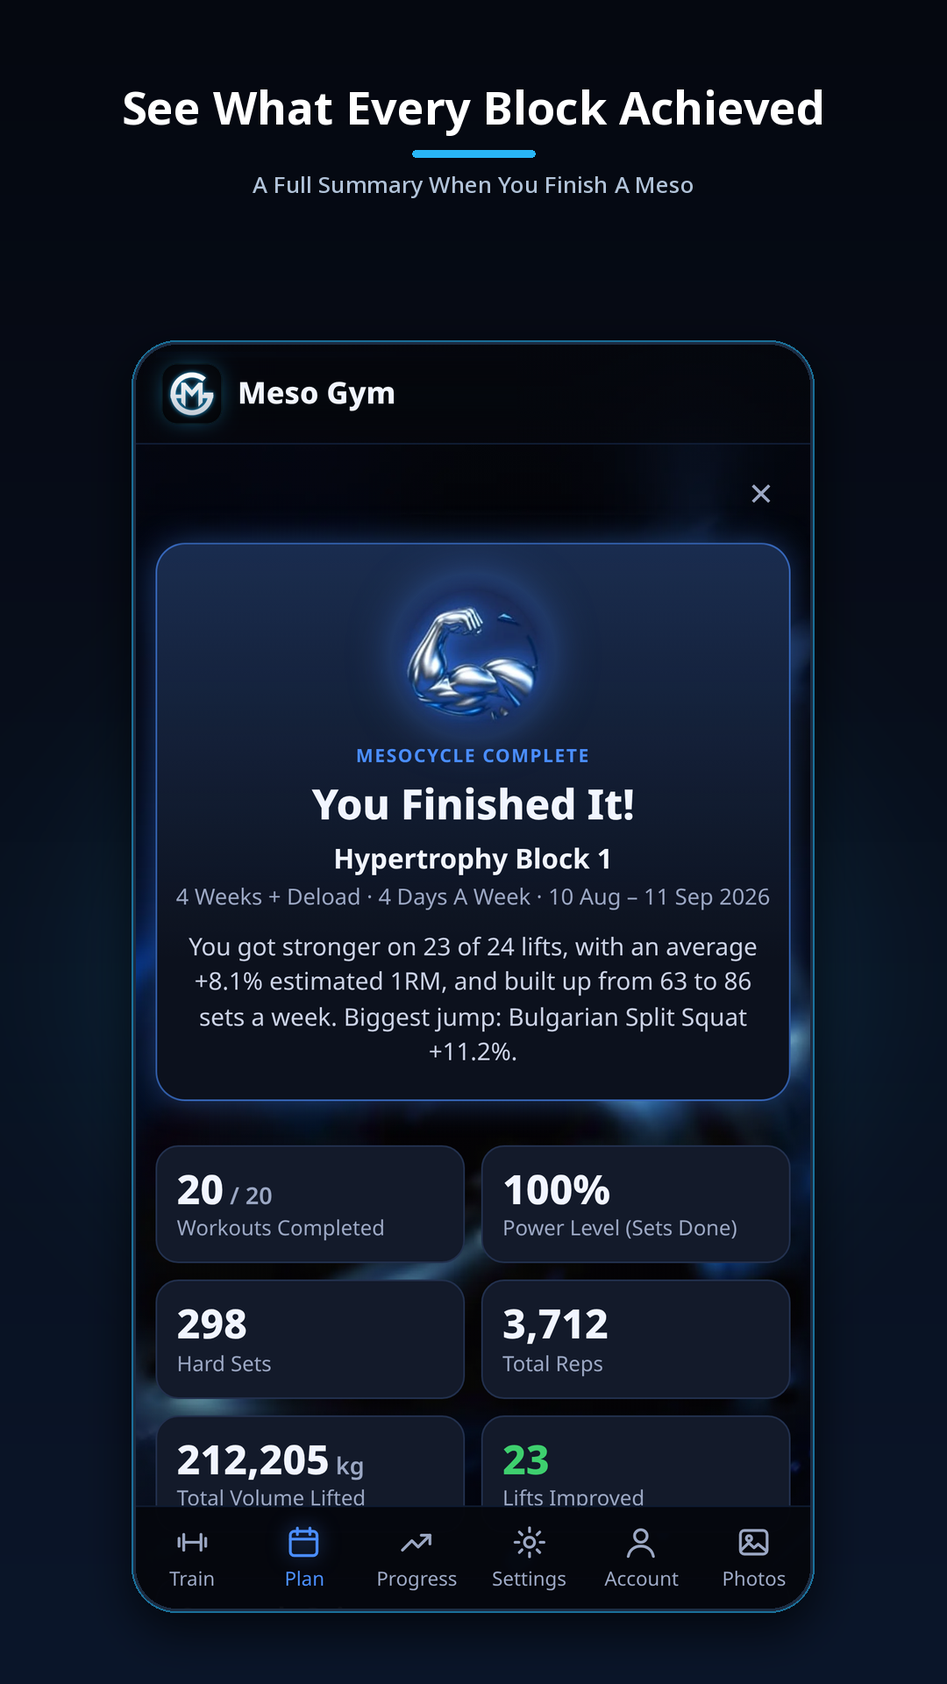
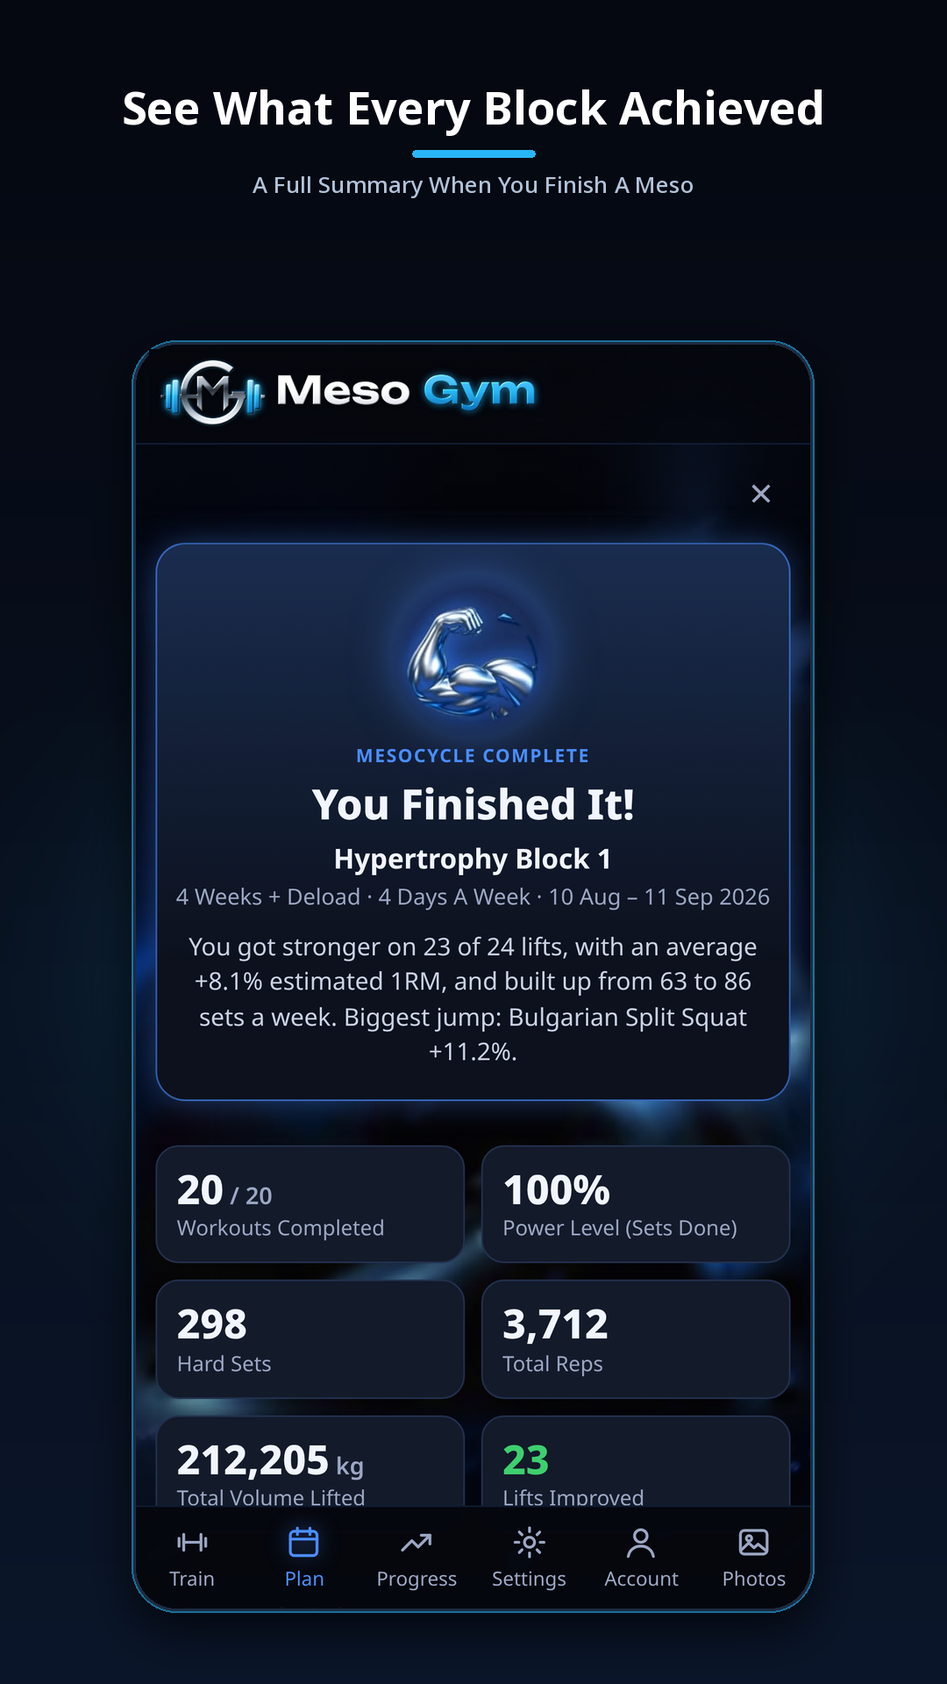
App screenshots: header now shows the full G1 lockup (Option B) matching app.mesogym.com; cache-bust v=g1lock

Changed region(s): [[0.1528, 0.1875, 0.5806, 0.25]]

diff --git a/press.html b/press.html
@@ -144,7 +144,7 @@
 <div class="dl-grid"><figure class=""><a href="assets/press/meso-gym-logo-transparent.png" download><img width="640" height="503" src="assets/press/meso-gym-logo-transparent-preview.webp" alt="Meso Gym logo, transparent background" loading="lazy" decoding="async"></a><figcaption class="small"><strong>Logo, transparent background</strong><br><a href="assets/press/meso-gym-logo-transparent.png" download>PNG, 1600×1260</a></figcaption></figure><figure class=""><a href="assets/press/meso-gym-banner-dark.png?v=2" download><img width="640" height="185" src="assets/press/meso-gym-banner-dark-preview.webp?v=2" alt="Meso Gym logo banner, dark" loading="lazy" decoding="async"></a><figcaption class="small"><strong>Logo banner, dark</strong><br><a href="assets/press/meso-gym-banner-dark.png?v=2" download>PNG, 1800×520</a></figcaption></figure><figure class=""><a href="assets/press/meso-gym-icon-1024.png" download><img width="640" height="640" src="assets/press/meso-gym-icon-1024-preview.webp" alt="Meso Gym app icon" loading="lazy" decoding="async"></a><figcaption class="small"><strong>App icon</strong><br><a href="assets/press/meso-gym-icon-1024.png" download>PNG, 1024×1024</a></figcaption></figure><figure class=""><a href="assets/press/meso-gym-feature-graphic-1024x500.png" download><img width="640" height="313" src="assets/press/meso-gym-feature-graphic-1024x500-preview.webp" alt="Meso Gym feature graphic" loading="lazy" decoding="async"></a><figcaption class="small"><strong>Feature graphic</strong><br><a href="assets/press/meso-gym-feature-graphic-1024x500.png" download>PNG, 1024×500</a></figcaption></figure></div></section>
 <section class="card" aria-labelledby="p-shots"><h2 id="p-shots">Screenshots</h2>
 <p class="muted">Real app screens with demo data. Tap a screenshot to download the full-size PNG.</p>
-<div class="press-shots"><figure><a href="assets/press/meso-gym-screenshot-1-log-every-set.png?v=3" download><img src="assets/press/meso-gym-screenshot-1-log-every-set.webp?v=3" alt="Meso Gym press screenshot: workout screen logging Incline Machine Chest Press at 74.5 kg for 11 reps, with an RIR target and suggested weight" width="540" height="960" loading="lazy" decoding="async"></a><figcaption class="small">Log every set with an RIR target<br><a href="assets/press/meso-gym-screenshot-1-log-every-set.png?v=3" download>PNG, 1080×1920</a></figcaption></figure><figure><a href="assets/press/meso-gym-screenshot-2-weekly-volume.png?v=3" download><img src="assets/press/meso-gym-screenshot-2-weekly-volume.webp?v=3" alt="Meso Gym press screenshot: weekly sets per muscle for back, rising from 11 to 12 sets across the mesocycle, then a deload" width="540" height="960" loading="lazy" decoding="async"></a><figcaption class="small">Weekly sets build, then deload<br><a href="assets/press/meso-gym-screenshot-2-weekly-volume.png?v=3" download>PNG, 1080×1920</a></figcaption></figure><figure><a href="assets/press/meso-gym-screenshot-3-feedback.png?v=3" download><img src="assets/press/meso-gym-screenshot-3-feedback.webp?v=3" alt="Meso Gym press screenshot: How Did It Go? feedback screen rating chest pump and workload after a workout" width="540" height="960" loading="lazy" decoding="async"></a><figcaption class="small">Feedback shapes next week<br><a href="assets/press/meso-gym-screenshot-3-feedback.png?v=3" download>PNG, 1080×1920</a></figcaption></figure><figure><a href="assets/press/meso-gym-screenshot-4-mesocycle-summary.png" download><img src="assets/press/meso-gym-screenshot-4-mesocycle-summary.webp" alt="Meso Gym press screenshot: mesocycle complete summary for Hypertrophy Block 1 with 20 of 20 workouts done and 23 lifts improved" width="540" height="960" loading="lazy" decoding="async"></a><figcaption class="small">A summary of every block<br><a href="assets/press/meso-gym-screenshot-4-mesocycle-summary.png" download>PNG, 1080×1920</a></figcaption></figure><figure><a href="assets/press/meso-gym-screenshot-5-progress.png?v=3" download><img src="assets/press/meso-gym-screenshot-5-progress.webp?v=3" alt="Meso Gym press screenshot: Power Level ring at 75 percent in week 4 of 5, with weekly progression bars" width="540" height="960" loading="lazy" decoding="async"></a><figcaption class="small">Watch your strength climb<br><a href="assets/press/meso-gym-screenshot-5-progress.png?v=3" download>PNG, 1080×1920</a></figcaption></figure></div></section>
+<div class="press-shots"><figure><a href="assets/press/meso-gym-screenshot-1-log-every-set.png?v=g1lock" download><img src="assets/press/meso-gym-screenshot-1-log-every-set.webp?v=g1lock" alt="Meso Gym press screenshot: workout screen logging Incline Machine Chest Press at 74.5 kg for 11 reps, with an RIR target and suggested weight" width="540" height="960" loading="lazy" decoding="async"></a><figcaption class="small">Log every set with an RIR target<br><a href="assets/press/meso-gym-screenshot-1-log-every-set.png?v=g1lock" download>PNG, 1080×1920</a></figcaption></figure><figure><a href="assets/press/meso-gym-screenshot-2-weekly-volume.png?v=g1lock" download><img src="assets/press/meso-gym-screenshot-2-weekly-volume.webp?v=g1lock" alt="Meso Gym press screenshot: weekly sets per muscle for back, rising from 11 to 12 sets across the mesocycle, then a deload" width="540" height="960" loading="lazy" decoding="async"></a><figcaption class="small">Weekly sets build, then deload<br><a href="assets/press/meso-gym-screenshot-2-weekly-volume.png?v=g1lock" download>PNG, 1080×1920</a></figcaption></figure><figure><a href="assets/press/meso-gym-screenshot-3-feedback.png?v=g1lock" download><img src="assets/press/meso-gym-screenshot-3-feedback.webp?v=g1lock" alt="Meso Gym press screenshot: How Did It Go? feedback screen rating chest pump and workload after a workout" width="540" height="960" loading="lazy" decoding="async"></a><figcaption class="small">Feedback shapes next week<br><a href="assets/press/meso-gym-screenshot-3-feedback.png?v=g1lock" download>PNG, 1080×1920</a></figcaption></figure><figure><a href="assets/press/meso-gym-screenshot-4-mesocycle-summary.png?v=g1lock" download><img src="assets/press/meso-gym-screenshot-4-mesocycle-summary.webp?v=g1lock" alt="Meso Gym press screenshot: mesocycle complete summary for Hypertrophy Block 1 with 20 of 20 workouts done and 23 lifts improved" width="540" height="960" loading="lazy" decoding="async"></a><figcaption class="small">A summary of every block<br><a href="assets/press/meso-gym-screenshot-4-mesocycle-summary.png?v=g1lock" download>PNG, 1080×1920</a></figcaption></figure><figure><a href="assets/press/meso-gym-screenshot-5-progress.png?v=g1lock" download><img src="assets/press/meso-gym-screenshot-5-progress.webp?v=g1lock" alt="Meso Gym press screenshot: Power Level ring at 75 percent in week 4 of 5, with weekly progression bars" width="540" height="960" loading="lazy" decoding="async"></a><figcaption class="small">Watch your strength climb<br><a href="assets/press/meso-gym-screenshot-5-progress.png?v=g1lock" download>PNG, 1080×1920</a></figcaption></figure></div></section>
 <section class="card" aria-labelledby="p-contact"><h2 id="p-contact">Press Contact</h2>
 <p>For interviews, review access or anything else, please use our <a href="contact.html?subject=Press%2FPartnership">contact form</a> and choose Press / Partnership.</p>
 <p class="small muted">Meso Gym is an independent app and is not affiliated with, endorsed by or sponsored by Renaissance Periodization (RP Strength).</p></section>

diff --git a/index.html b/index.html
@@ -94,7 +94,7 @@
 </section>
 <section class="hero-shot">
   <figure class="main-shot"><video src="assets/video/meso-gym-home-video-g1c.mp4?v=10" poster="assets/video/meso-gym-home-video-poster-g1b.webp?v=10" controls playsinline preload="metadata" width="720" height="1280" title="Meso Gym App Walkthrough" aria-label="Meso Gym app walkthrough video with voiceover: plan a mesocycle, log every set, see your progress and train together">Your browser can't play this video. <a href="assets/video/meso-gym-home-video-g1c.mp4?v=10">Download The Meso Gym Video</a>.</video><figcaption>See Meso Gym In 90 Seconds. Tap Play For Sound.</figcaption></figure>
-  <figure class="inset"><img src="assets/screens/meso-gym-light-theme.webp" alt="The Train screen in the Light theme" loading="lazy" width="369" height="800"><figcaption><strong>Pick Your Theme</strong><br>Change the app's look in Settings.</figcaption></figure>
+  <figure class="inset"><img src="assets/screens/meso-gym-light-theme.webp?v=g1lock" alt="The Train screen in the Light theme" loading="lazy" width="369" height="800"><figcaption><strong>Pick Your Theme</strong><br>Change the app's look in Settings.</figcaption></figure>
 </section>
 <section class="card rp-switch" aria-labelledby="rp-switch-h">
   <h2 id="rp-switch-h">Switching From RP? Bring Your Training History</h2>
@@ -123,7 +123,7 @@
   <!-- tile -->
   <a class="tile" href="see-your-progress.html"><div class="tile-thumb"><img src="assets/screens/home-tile-see-your-progress.webp" width="780" height="620" alt="Meso Gym Power Level ring at 75 percent of the planned sets for the current mesocycle" loading="lazy" decoding="async"></div><div class="tile-text"><h3>See Your Progress</h3><p>Power Level, body map and photos.</p></div></a>
   <!-- tile -->
-  <a class="tile" href="learn-as-you-go.html"><div class="tile-thumb"><img src="assets/screens/home-tile-learn-as-you-go-help.webp" width="780" height="620" alt="Meso Gym Help menu from the ? at the top of the app, with How To Use Meso Gym, All Features and Feedback" loading="lazy" decoding="async"></div><div class="tile-text"><h3>Learn As You Go</h3><p>Intro video, tips and a step-by-step guide.</p></div></a>
+  <a class="tile" href="learn-as-you-go.html"><div class="tile-thumb"><img src="assets/screens/home-tile-learn-as-you-go-help.webp?v=g1lock" width="780" height="620" alt="Meso Gym Help menu from the ? at the top of the app, with How To Use Meso Gym, All Features and Feedback" loading="lazy" decoding="async"></div><div class="tile-text"><h3>Learn As You Go</h3><p>Intro video, tips and a step-by-step guide.</p></div></a>
   <!-- tile -->
   <a class="tile" href="training-guide.html"><div class="tile-thumb"><img src="assets/screens/home-tile-training-guide.webp" width="780" height="620" alt="Meso Gym weeks grid showing completed sets for each training day from week 1 to week 4" loading="lazy" decoding="async"></div><div class="tile-text"><h3>Training Guide</h3><p>RIR, mesocycles and deloads explained.</p></div></a>
   <!-- tile -->

diff --git a/learn-as-you-go.html b/learn-as-you-go.html
@@ -85,9 +85,9 @@
 <main id="main" class="wrap">
 <section class="page-head"><h1>Learn As You Go</h1><p class="lead">A short intro video and in-the-moment tips get you started, and the <strong>?</strong> at the top right of every screen opens a menu with How To Use Meso Gym, the built-in step-by-step guide, plus All Features and Feedback. Your training is saved on your phone and, when you sign in, syncs to your Meso Gym account and the web app. It still works offline, and backup export is in Settings.</p></section>
 <div class="shots">
-  <figure><img width="390" height="800" src="assets/screens/meso-gym-help-menu.webp?v=4" alt="Meso Gym Help menu open from the ? at the top right of the workout screen, with How To Use Meso Gym, All Features and Feedback" loading="lazy" decoding="async"><figcaption>Tap the <strong>?</strong> at the top of any screen for the step-by-step guide, All Features and Feedback.</figcaption></figure>
-  <figure><img width="390" height="800" src="assets/screens/meso-gym-settings-screen.webp?v=4" alt="Meso Gym Settings screen with Theme, Default Unit, Interval Timer and Intro and Tips, with Watch the Intro and Reset Tips buttons" loading="lazy" decoding="async"><figcaption>Replay the intro or bring the tips back in Settings.</figcaption></figure>
-  <figure><img width="390" height="844" src="assets/screens/meso-gym-light-theme.webp" alt="Meso Gym Train screen in the Light theme, showing the Autumn Build mesocycle" loading="lazy" decoding="async"><figcaption><strong>Pick Your Theme:</strong> change the app's look.</figcaption></figure>
+  <figure><img width="390" height="800" src="assets/screens/meso-gym-help-menu.webp?v=g1lock" alt="Meso Gym Help menu open from the ? at the top right of the workout screen, with How To Use Meso Gym, All Features and Feedback" loading="lazy" decoding="async"><figcaption>Tap the <strong>?</strong> at the top of any screen for the step-by-step guide, All Features and Feedback.</figcaption></figure>
+  <figure><img width="390" height="800" src="assets/screens/meso-gym-settings-screen.webp?v=g1lock" alt="Meso Gym Settings screen with Theme, Default Unit, Interval Timer and Intro and Tips, with Watch the Intro and Reset Tips buttons" loading="lazy" decoding="async"><figcaption>Replay the intro or bring the tips back in Settings.</figcaption></figure>
+  <figure><img width="390" height="844" src="assets/screens/meso-gym-light-theme.webp?v=g1lock" alt="Meso Gym Train screen in the Light theme, showing the Autumn Build mesocycle" loading="lazy" decoding="async"><figcaption><strong>Pick Your Theme:</strong> change the app's look.</figcaption></figure>
 </div>
 <p class="center"><a class="btn" href="training-guide.html">Read The Training Guide →</a></p>
 </main>

diff --git a/build-your-mesocycle.html b/build-your-mesocycle.html
@@ -85,9 +85,9 @@
 <main id="main" class="wrap">
 <section class="page-head"><h1>Build Your Mesocycle</h1><p class="lead">Start from a ready-made template or build your own routine, with exercises graded and ranked best-first for each muscle. Set every muscle to Emphasise, Grow or Maintain and see exactly how its sets ramp across the block.</p></section>
 <div class="shots">
-  <figure><img width="390" height="844" src="assets/screens/meso-gym-mesocycle-builder-day.webp" alt="Meso Gym mesocycle builder showing Day 1 Upper, with Shuffle, Change, demo, pin and remove controls on each exercise" loading="lazy" decoding="async"><figcaption>Start from a template or Build It For Me, then shuffle, change, pin or remove exercises.</figcaption></figure>
+  <figure><img width="390" height="844" src="assets/screens/meso-gym-mesocycle-builder-day.webp?v=g1lock" alt="Meso Gym mesocycle builder showing Day 1 Upper, with Shuffle, Change, demo, pin and remove controls on each exercise" loading="lazy" decoding="async"><figcaption>Start from a template or Build It For Me, then shuffle, change, pin or remove exercises.</figcaption></figure>
   <figure><img width="390" height="844" src="assets/screens/meso-gym-exercise-picker-graded.webp" alt="Meso Gym chest exercise picker sorted Best First, with S and A grade badges and a demo button for each exercise" loading="lazy" decoding="async"><figcaption>Exercises are graded and sorted best-first for each muscle.</figcaption></figure>
-  <figure><img width="390" height="844" src="assets/screens/meso-gym-muscle-priorities.webp" alt="Meso Gym Muscle Priorities screen with Emphasise, Grow and Maintain options for each muscle" loading="lazy" decoding="async"><figcaption>Choose Emphasise, Grow or Maintain for every muscle.</figcaption></figure>
+  <figure><img width="390" height="844" src="assets/screens/meso-gym-muscle-priorities.webp?v=g1lock" alt="Meso Gym Muscle Priorities screen with Emphasise, Grow and Maintain options for each muscle" loading="lazy" decoding="async"><figcaption>Choose Emphasise, Grow or Maintain for every muscle.</figcaption></figure>
 </div>
 
 <section class="card prose" aria-labelledby="rp-import-h"><h2 id="rp-import-h">Coming From The RP Hypertrophy App?</h2><p>Import your RP data export into Meso Gym: finished mesocycles with every logged set go into your history, and unstarted plans become templates you can build from. <a href="switch-from-rp.html">How to import →</a></p><p class="small muted">Meso Gym isn't affiliated with Renaissance Periodization or the RP Hypertrophy app.</p></section>

diff --git a/see-your-progress.html b/see-your-progress.html
@@ -85,9 +85,9 @@
 <main id="main" class="wrap">
 <section class="page-head"><h1>See Your Progress</h1><p class="lead">Your Power Level builds through the block, and you can see it against your last meso's peak. The body map shows which muscles you've hit, and progress photos every two weeks show the change. Photos stay on your phone.</p></section>
 <div class="shots">
-  <figure><img width="390" height="844" src="assets/screens/meso-gym-power-level.webp" alt="Meso Gym Power Level ring at 75 percent in week 4 of 5, against the last meso peak, with weekly progression bars" loading="lazy" decoding="async"><figcaption>Power Level, against your last meso's peak.</figcaption></figure>
-  <figure><img width="390" height="844" src="assets/screens/meso-gym-body-map.webp" alt="Meso Gym body map with front and back figures showing on-track, under-trained and not-trained muscles for the current meso" loading="lazy" decoding="async"><figcaption>Tap a muscle to see everything you've logged for it.</figcaption></figure>
-  <figure><img width="390" height="844" src="assets/screens/meso-gym-progress-photos.webp" alt="Meso Gym Progress Photos screen with next photo due in 14 days, a Start vs Latest comparison nine weeks apart and a timeline" loading="lazy" decoding="async"><figcaption>A photo every two weeks, compared side by side.</figcaption></figure>
+  <figure><img width="390" height="844" src="assets/screens/meso-gym-power-level.webp?v=g1lock" alt="Meso Gym Power Level ring at 75 percent in week 4 of 5, against the last meso peak, with weekly progression bars" loading="lazy" decoding="async"><figcaption>Power Level, against your last meso's peak.</figcaption></figure>
+  <figure><img width="390" height="844" src="assets/screens/meso-gym-body-map.webp?v=g1lock" alt="Meso Gym body map with front and back figures showing on-track, under-trained and not-trained muscles for the current meso" loading="lazy" decoding="async"><figcaption>Tap a muscle to see everything you've logged for it.</figcaption></figure>
+  <figure><img width="390" height="844" src="assets/screens/meso-gym-progress-photos.webp?v=g1lock" alt="Meso Gym Progress Photos screen with next photo due in 14 days, a Start vs Latest comparison nine weeks apart and a timeline" loading="lazy" decoding="async"><figcaption>A photo every two weeks, compared side by side.</figcaption></figure>
 </div>
 
 <p class="next"><a class="btn" href="learn-as-you-go.html">Next: Learn As You Go →</a></p>

diff --git a/log-every-set.html b/log-every-set.html
@@ -86,8 +86,8 @@
 <section class="page-head"><h1>Log Every Set</h1><p class="lead">Every exercise shows your sets, rep range and RIR target, plus a suggested weight based on last time. Tick a set to log it. Enter the first set's weight and Meso Gym fills it into the other sets for you.</p></section>
 <div class="shots">
   <figure><img width="390" height="415" src="assets/screens/meso-gym-workout-set-logged.webp" alt="Meso Gym workout screen with set 1 of Incline Machine Chest Press ticked at 74.5 kg for 11 reps, with set 2 already filled in at 74.5 kg" loading="lazy" decoding="async"><figcaption>Tick a set to log it.</figcaption></figure>
-  <figure><img width="390" height="844" src="assets/screens/meso-gym-suggested-weight.webp" alt="Meso Gym workout screen for Incline Machine Chest Press, 8 to 12 reps at 1 RIR, suggested 74.5 kg times 10, plus 2 kg over last time, with both sets pre-filled" loading="lazy" decoding="async"><figcaption>A suggested weight and the increase over last time.</figcaption></figure>
-  <figure><img width="390" height="844" src="assets/screens/meso-gym-weight-auto-fill.webp" alt="Meso Gym workout screen for Incline Machine Chest Press with set 1 logged at 74.5 kg for 11 reps and the same weight filled in for set 2" loading="lazy" decoding="async"><figcaption>Enter one weight and the rest of your sets fill in.</figcaption></figure>
+  <figure><img width="390" height="844" src="assets/screens/meso-gym-suggested-weight.webp?v=g1lock" alt="Meso Gym workout screen for Incline Machine Chest Press, 8 to 12 reps at 1 RIR, suggested 74.5 kg times 10, plus 2 kg over last time, with both sets pre-filled" loading="lazy" decoding="async"><figcaption>A suggested weight and the increase over last time.</figcaption></figure>
+  <figure><img width="390" height="844" src="assets/screens/meso-gym-weight-auto-fill.webp?v=g1lock" alt="Meso Gym workout screen for Incline Machine Chest Press with set 1 logged at 74.5 kg for 11 reps and the same weight filled in for set 2" loading="lazy" decoding="async"><figcaption>Enter one weight and the rest of your sets fill in.</figcaption></figure>
 </div>
 
 <p class="next"><a class="btn" href="interval-timer.html">Next: Interval Timer →</a></p>

diff --git a/training-that-adapts.html b/training-that-adapts.html
@@ -85,8 +85,8 @@
 <main id="main" class="wrap">
 <section class="page-head"><h1>Training That Adapts</h1><p class="lead">After each workout, rate pump, soreness and workload for every muscle you trained. Meso Gym adds or removes sets for that day next week, and shows you the change before you save.</p></section>
 <div class="shots">
-  <figure><img width="390" height="844" src="assets/screens/meso-gym-workout-feedback.webp" alt="Meso Gym How Did It Go? feedback screen rating Chest pump and workload, with an Up One Set badge" loading="lazy" decoding="async"><figcaption>Rate each muscle and see the change straight away.</figcaption></figure>
-  <figure><img width="390" height="844" src="assets/screens/meso-gym-next-week-changes.webp" alt="Meso Gym next week changes screen comparing this week with week 5 for every exercise: Incline Machine Chest Press up a set and 2 kg, Lateral Raise up a set and 0.5 kg, with reasons where a lift holds" loading="lazy" decoding="async"><figcaption>See exactly what changes next week before you train.</figcaption></figure>
+  <figure><img width="390" height="844" src="assets/screens/meso-gym-workout-feedback.webp?v=g1lock" alt="Meso Gym How Did It Go? feedback screen rating Chest pump and workload, with an Up One Set badge" loading="lazy" decoding="async"><figcaption>Rate each muscle and see the change straight away.</figcaption></figure>
+  <figure><img width="390" height="844" src="assets/screens/meso-gym-next-week-changes.webp?v=g1lock" alt="Meso Gym next week changes screen comparing this week with week 5 for every exercise: Incline Machine Chest Press up a set and 2 kg, Lateral Raise up a set and 0.5 kg, with reasons where a lift holds" loading="lazy" decoding="async"><figcaption>See exactly what changes next week before you train.</figcaption></figure>
 </div>
 
 <p class="next"><a class="btn" href="see-your-progress.html">Next: See Your Progress →</a></p>

diff --git a/interval-timer.html b/interval-timer.html
@@ -87,7 +87,7 @@
 <div class="shots">
   <figure><img width="390" height="405" src="assets/screens/meso-gym-rest-interval-picker.webp" alt="Meso Gym workout screen with Timer On at the top and the rest interval picker under Incline Machine Chest Press showing 1:00, 1:30, 2:00 selected, 3:00 and a Start button" loading="lazy" decoding="async"><figcaption>Interval Timer On. Pick 1:00, 1:30, 2:00 or 3:00 for each exercise.</figcaption></figure>
   <figure><img width="390" height="400" src="assets/screens/meso-gym-rest-timer-countdown.webp" alt="Meso Gym rest timer counting down from 1:56 with minus 15 seconds, plus 15 seconds and Skip buttons" loading="lazy" decoding="async"><figcaption>Rest counts down after you press Start. Adjust or skip it.</figcaption></figure>
-  <figure><img width="390" height="800" src="assets/screens/meso-gym-settings-screen.webp?v=4" alt="Meso Gym Settings screen with the Interval Timer turned On, below Theme and Default Unit" loading="lazy" decoding="async"><figcaption>Turn the interval timer on or off in Settings.</figcaption></figure>
+  <figure><img width="390" height="800" src="assets/screens/meso-gym-settings-screen.webp?v=g1lock" alt="Meso Gym Settings screen with the Interval Timer turned On, below Theme and Default Unit" loading="lazy" decoding="async"><figcaption>Turn the interval timer on or off in Settings.</figcaption></figure>
 </div>
 
 <p class="next"><a class="btn" href="demo-videos.html">Next: Demo Videos →</a></p>
